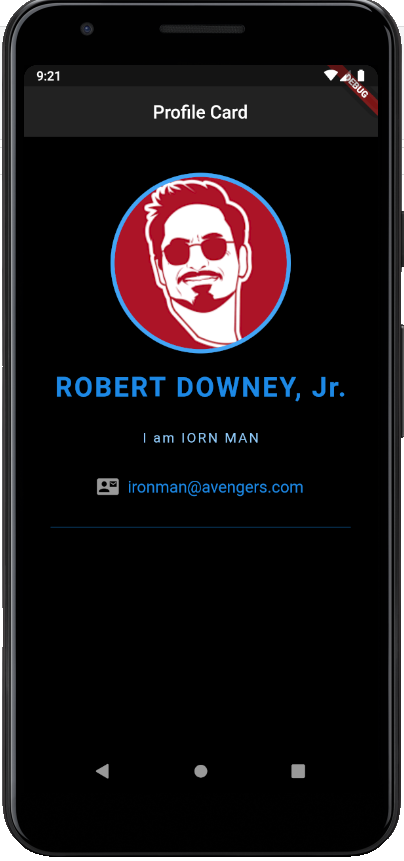
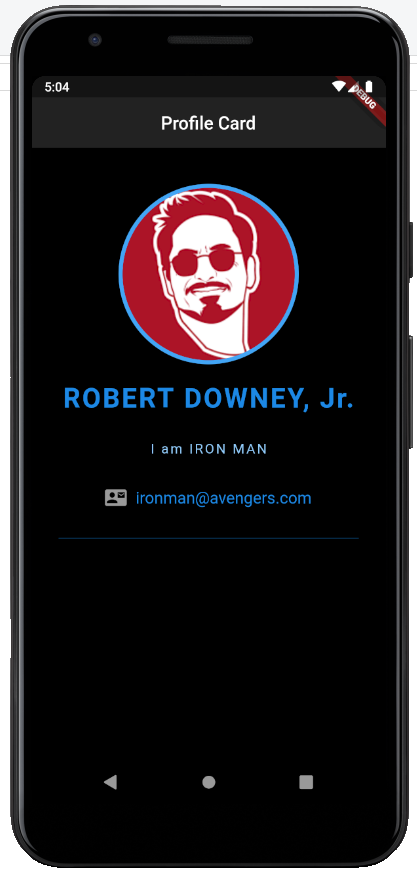
update

diff --git a/lib/main.dart b/lib/main.dart
@@ -47,7 +47,7 @@ class ProfileCard extends StatelessWidget {
 
             Center(
               child: Text(
-                "I am IORN MAN",
+                "I am IRON MAN",
                 textAlign: TextAlign.center,
                 style: TextStyle(
                   fontSize: 15.0,
